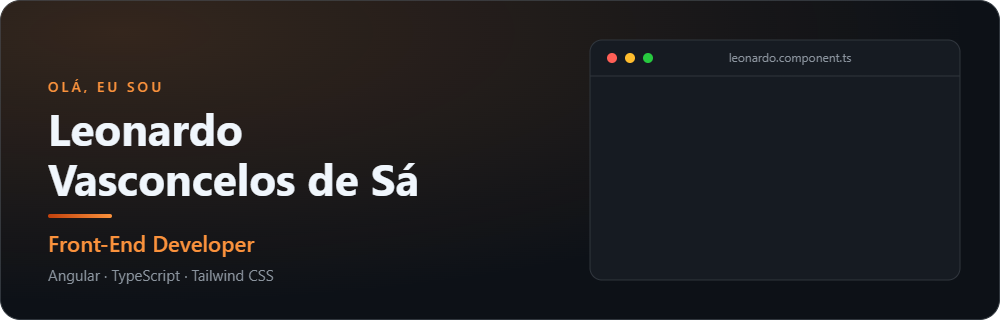
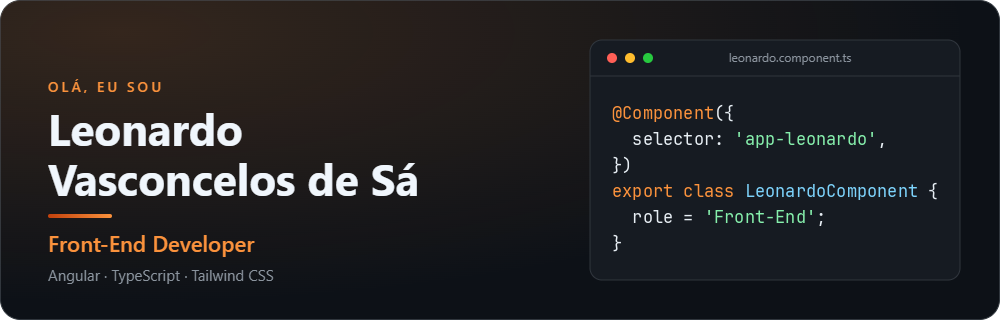
Show code in the hero and group skills into cards.
Draw an Angular snippet inside the editor window, replace the badge stack with a two-column table of Leonardo's stack, drop the closing quote, and request an orange contribution snake.

diff --git a/README.md b/README.md
@@ -10,31 +10,29 @@
 
 ## SKILLS
 
-<div align="center">
-
-  <img src="https://img.shields.io/badge/FRONT--END-C2410C?style=for-the-badge" alt="Front-End">
-  <br><br>
-  <img src="https://skillicons.dev/icons?i=angular,ts,tailwind,html,css&perline=10" alt="Angular, TypeScript, Tailwind CSS, HTML, CSS">
-
-  <br><br>
-
-  <img src="https://img.shields.io/badge/BACK--END%20(EM%20ESTUDO)-C2410C?style=for-the-badge" alt="Back-End em estudo">
-  <br><br>
-  <img src="https://skillicons.dev/icons?i=java,spring,cpp&perline=10" alt="Java, Spring Boot, C++">
-
-  <br><br>
-
-  <img src="https://img.shields.io/badge/BANCO%20DE%20DADOS-C2410C?style=for-the-badge" alt="Banco de Dados">
-  <br><br>
-  <img src="https://go-skill-icons.vercel.app/api/icons?i=dbeaver&theme=dark" alt="DBeaver">
-
-  <br><br>
-
-  <img src="https://img.shields.io/badge/DESIGN%20E%20FERRAMENTAS-C2410C?style=for-the-badge" alt="Design e Ferramentas">
-  <br><br>
-  <img src="https://go-skill-icons.vercel.app/api/icons?i=figma,git,github,cursor&perline=10&theme=dark" alt="Figma, Git, GitHub, Cursor">
-
-</div>
+<table align="center" width="100%">
+  <tr>
+    <td align="center" width="50%" valign="middle">
+      <b>Front-End</b><br>
+      <img src="https://skillicons.dev/icons?i=angular,ts,tailwind,html,css" alt="Angular, TypeScript, Tailwind CSS, HTML, CSS">
+    </td>
+    <td align="center" width="50%" valign="middle">
+      <b>Back-End (em estudo)</b><br>
+      <img src="https://skillicons.dev/icons?i=java,spring,cpp" alt="Java, Spring, C++">
+    </td>
+  </tr>
+  <tr>
+    <td align="center" width="50%" valign="middle">
+      <b>Banco de Dados</b><br>
+      <img src="https://go-skill-icons.vercel.app/api/icons?i=dbeaver&theme=dark" alt="DBeaver">
+    </td>
+    <td align="center" width="50%" valign="middle">
+      <b>Design e Ferramentas</b><br>
+      <img src="https://skillicons.dev/icons?i=figma,git,github" alt="Figma, Git, GitHub">
+      <img src="https://go-skill-icons.vercel.app/api/icons?i=cursor&theme=dark" alt="Cursor">
+    </td>
+  </tr>
+</table>
 
 ## PROJETOS EM DESTAQUE
 
@@ -76,12 +74,6 @@
     <source media="(prefers-color-scheme: light)" srcset="https://raw.githubusercontent.com/leonardovsa08/leonardovsa08/output/github-snake.svg">
     <img src="https://raw.githubusercontent.com/leonardovsa08/leonardovsa08/output/github-snake.svg" width="100%" alt="Cobrinha animada percorrendo as contribuições de leonardovsa08">
   </picture>
-</div>
-
-<br><br>
-
-<div align="center">
-  <img src="./assets/quote.png" width="100%" alt="Talk is cheap. Show me the code. - Linus Torvalds">
 </div>
 
 ## CONTATOS
